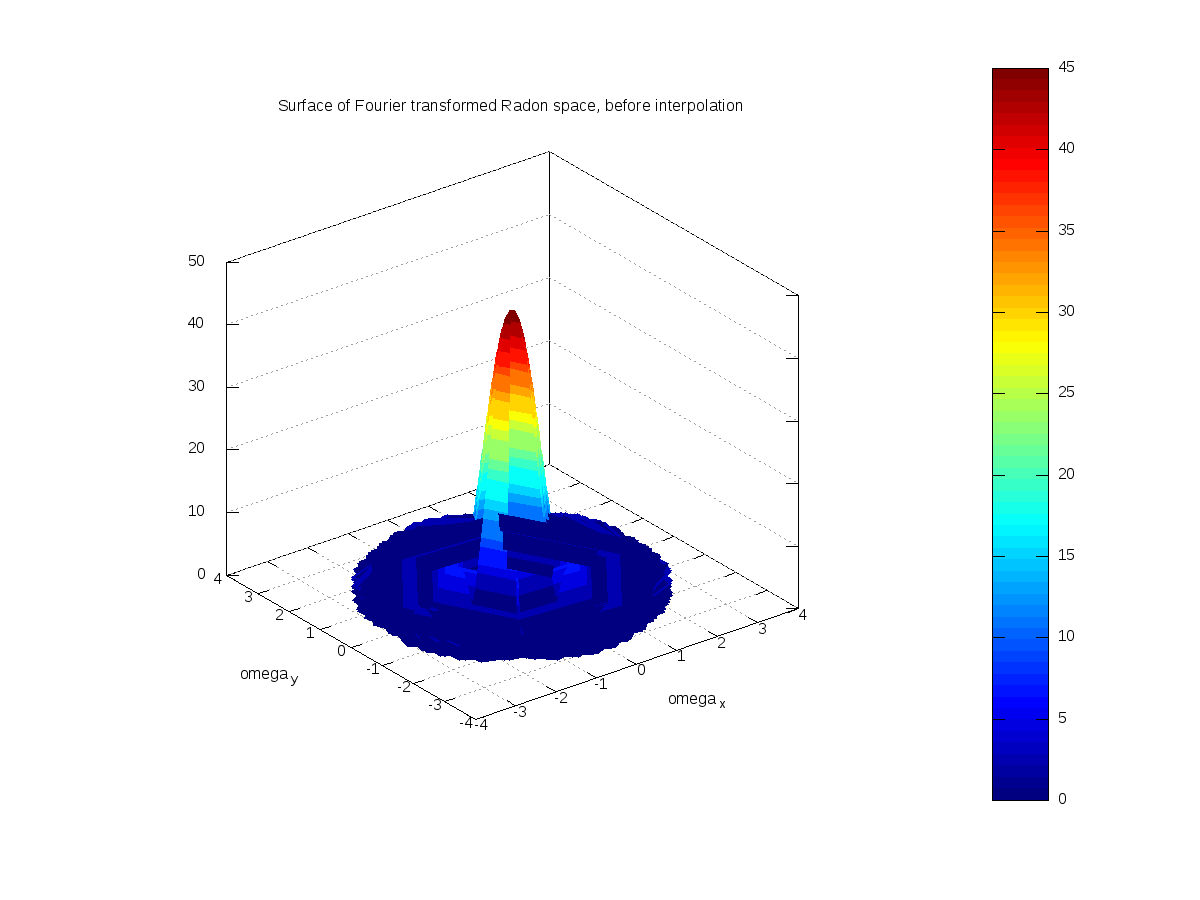
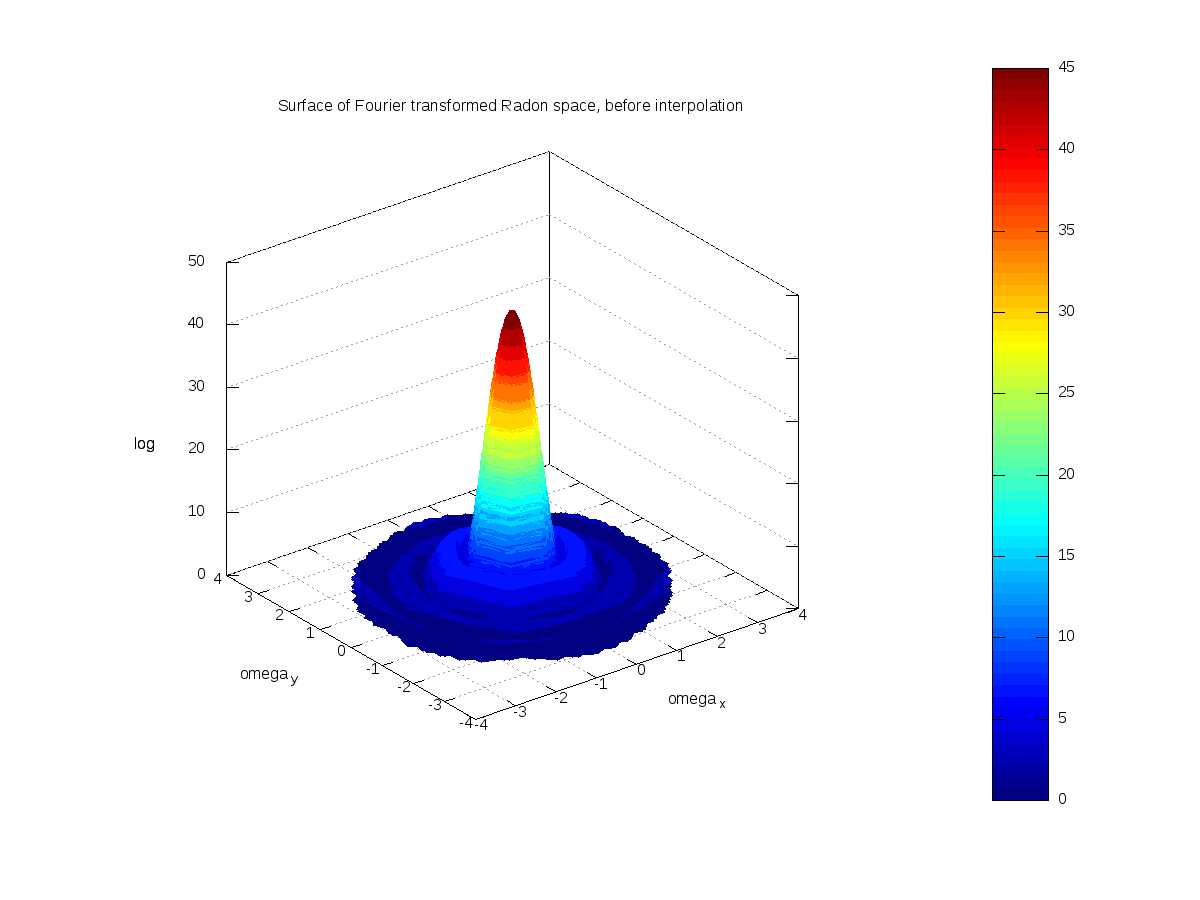
Add feature on inverse 2D Fourier transform

Changed region(s): [[0.2775, 0.3733, 0.555, 0.7156]]

diff --git a/main.m b/main.m
@@ -11,11 +11,11 @@
 %! Main process of the simulation.
 % This script generates a radon projection image from a selected phantom.
 % Then 1D Fourier transform is applied to each projection angle. The result is then interpolated onto the cartesian plane according to Central slice theorem. Lastly inverse 2D Fourier transform is applied to reproduce the image.
-% @param shape shape of the phantom
+% @param shape shape of the phantom. Can be 'Shepp-Logan', 'Modified Shepp-Logan', 'dot', 'square', or 'stripe'
 % @param N_image mininium size of the phantom image (in pixels)
 % @param N_theta Number of slices in Radon scan from 0deg to 180deg (excluding 180deg)
 % @param SNR Signal to Noise Ratio
-% @param interp_m method of interpolation, can be 'nearest','linear' or 'cubic'
+% @param interp_m method of interpolation. Can be 'nearest','linear' or 'cubic'
 % @param DEBUG mode. If set to 1, many more figures are printed out for debugging process.
 function main(shape,N_image,N_theta,SNR,interp_m,DEBUG)
 %%%%%%%%%%%%%%%%%%%%%%%%%%%%%%%%%%%%%%%%%%%%%%%%%%%%%%%%%%%%%%%%
@@ -56,4 +56,6 @@ save_image(THETA, omega_s, abs(Fourier_Radon),...
 
 %%%%%%%%%%%%%%%%%%%%%%%%%%%%%%%%%%%%%%%%%%%%%%%%%%%%%%%%%%%%%%%%%%%%%
 %% INVERSE 2D FOURIER TRANSFORM
-
+[Final_image axis_xy] = inverse_Fourier_2D(Fourier_2D,omega_xy);
+save_image(axis_xy,axis_xy,real(Final_image),...
+	'Reconstructed Image','x','y');

diff --git a/polar_to_rect.m b/polar_to_rect.m
@@ -57,15 +57,19 @@ axis_omega_xy = omega_x;
 if(DEBUG)
 [WX WY] = pol2cart(THETA,OMEGA_S);
 figure
-surf(WX,WY,abs(Extended_Fourier_Radon)),shading('interp'),colormap(jet),colorbar
+surf(WX,WY,abs(Extended_Fourier_Radon),...
+	'edgecolor','none')
+colormap(jet),colorbar
 title('Surface of Fourier transformed Radon space, before interpolation')
-xlabel('omega_x'),ylabel('omega_y')
+xlabel('omega_x'),ylabel('omega_y'),zlabel('log')
 print -dpng 'Surface_of_Fourier_transformed_Radon_space_before_interpolation.png'
 
 figure
-surf(omega_x,omega_y,abs(Fourier_2D)),shading('interp'),colormap(jet),colorbar
+surf(omega_x,omega_y,abs(Fourier_2D),...
+		'edgecolor','none')
+colormap(jet),colorbar
 title('Surface of Fourier transformed Radon space, after interpolation')
-xlabel('omega_x'),ylabel('omega_y')
+xlabel('omega_x'),ylabel('omega_y'),zlabel('log')
 print -dpng 'Surface_of_Fourier_transformed_Radon_space_after_interpolation.png'
 end
 

diff --git a/inverse_Fourier_2D.m b/inverse_Fourier_2D.m
@@ -1,0 +1,27 @@
+%%
+%! @file
+% Apply inverse Fourier 2D transform to the image
+%
+
+%%
+%! @param Fourier_2D matrix of the interpolated 2D Fourier space
+% @param omega_xy value of omega_x (or omega_y) in each column (or row) of matrix \c Fourier_2D.
+% @retval Final_image Inverse Fourier transform of matrix \c Fourier_2D.
+% @retval axis_xy value of x (or y) in each column (or row) of \c Final_image
+function [Final_image,axis_xy] = inverse_Fourier_2D(Fourier_2D,omega_xy)
+
+% Shift the DC to the left
+shifted_Fourier_2D = ifftshift(Fourier_2D);
+
+% Apply inverse 2D Fourier transform
+shifted_Final_image = ifft2(shifted_Fourier_2D);
+
+% Shift the DC back to the centre
+Final_image = fftshift(shifted_Final_image);
+
+%Label the axes x and y
+size_omega = length(omega_xy);
+d_omega = mean(diff(omega_xy));
+dx = 2*pi/(d_omega*size_omega);
+axis_xy = omega_xy * (dx / d_omega);
+

diff --git a/apply_fft1.m b/apply_fft1.m
@@ -15,9 +15,11 @@ function [Fourier_Radon axis_omega_s] = apply_fft1(Radon,DEBUG)
 Fourier_Radon = fft(ifftshift(Radon,1));
 
 % Label the axis_omega_s,theta axes;
-dx=1;
 [size_omega_s size_theta] = size(Fourier_Radon);
-axis_omega_s = [0:(size_omega_s/2-1)  (-size_omega_s/2):-1] * 2*pi/(size_omega_s*dx);
+dx=1;
+% d_omega = 2*pi / Period; where dx = Period / N
+d_omega = 2*pi/(size_omega_s*dx);
+axis_omega_s = [0:(size_omega_s/2-1)  (-size_omega_s/2):-1] * (d_omega / dx);
 
 % Shift the DC to the DFT centre
 axis_omega_s = fftshift(axis_omega_s);

diff --git a/start_simulation.m b/start_simulation.m
@@ -13,7 +13,7 @@ DEBUG = 1;
 %%%%%%%%%%%%%%%%%%%%%%%%%%%%%%%%%%%%%%%%%%%%%%%%%%%%%%%%%%%%%%%%%
 %% Parameters
 
-%! Shape of the phantom.
+%! Shape of the phantom. Can be 'Shepp-Logan', 'Modified Shepp-Logan', 'dot', 'square', or 'stripe'.
 shape='dot';
 
 %! Size of the phantom.
